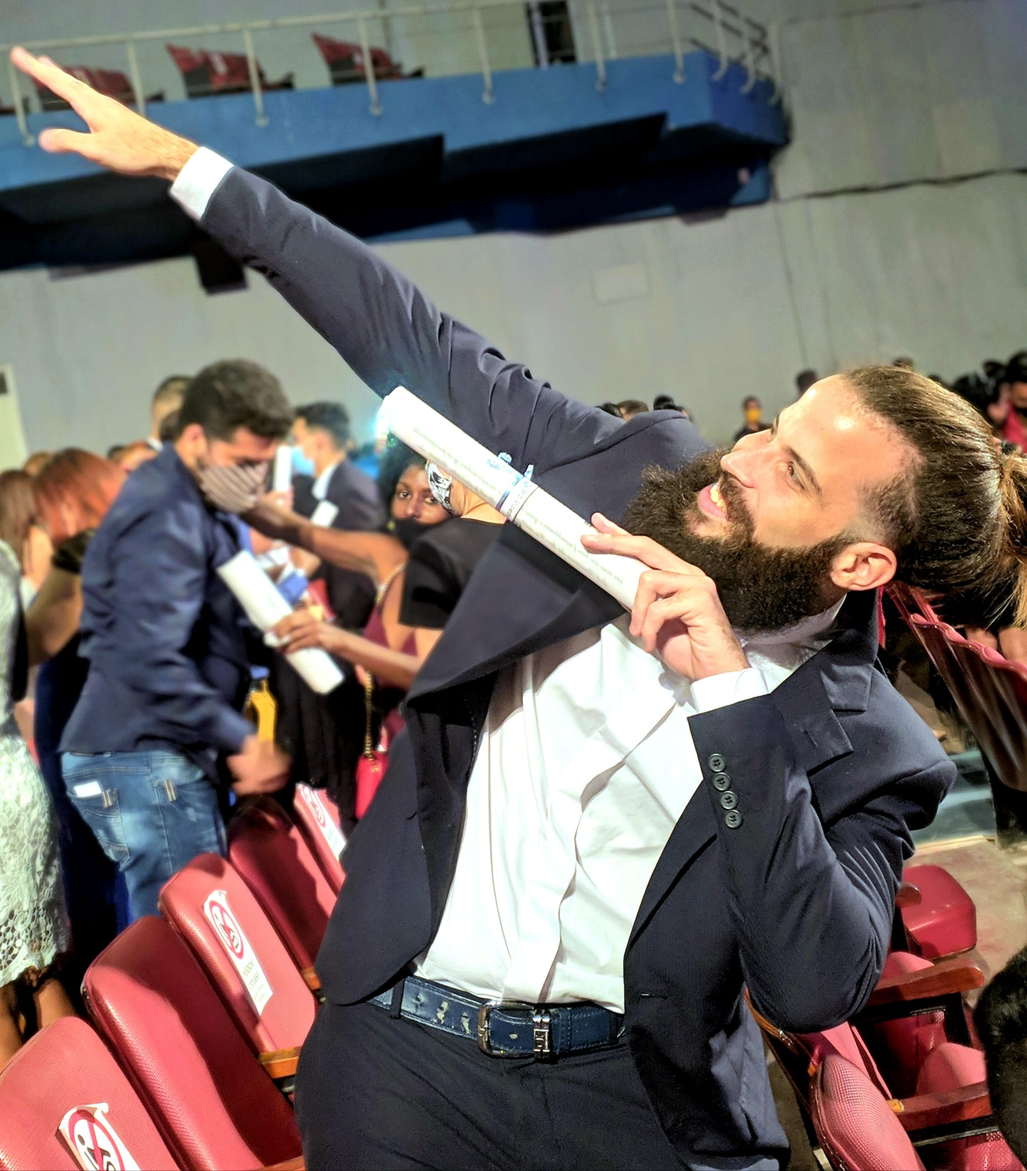
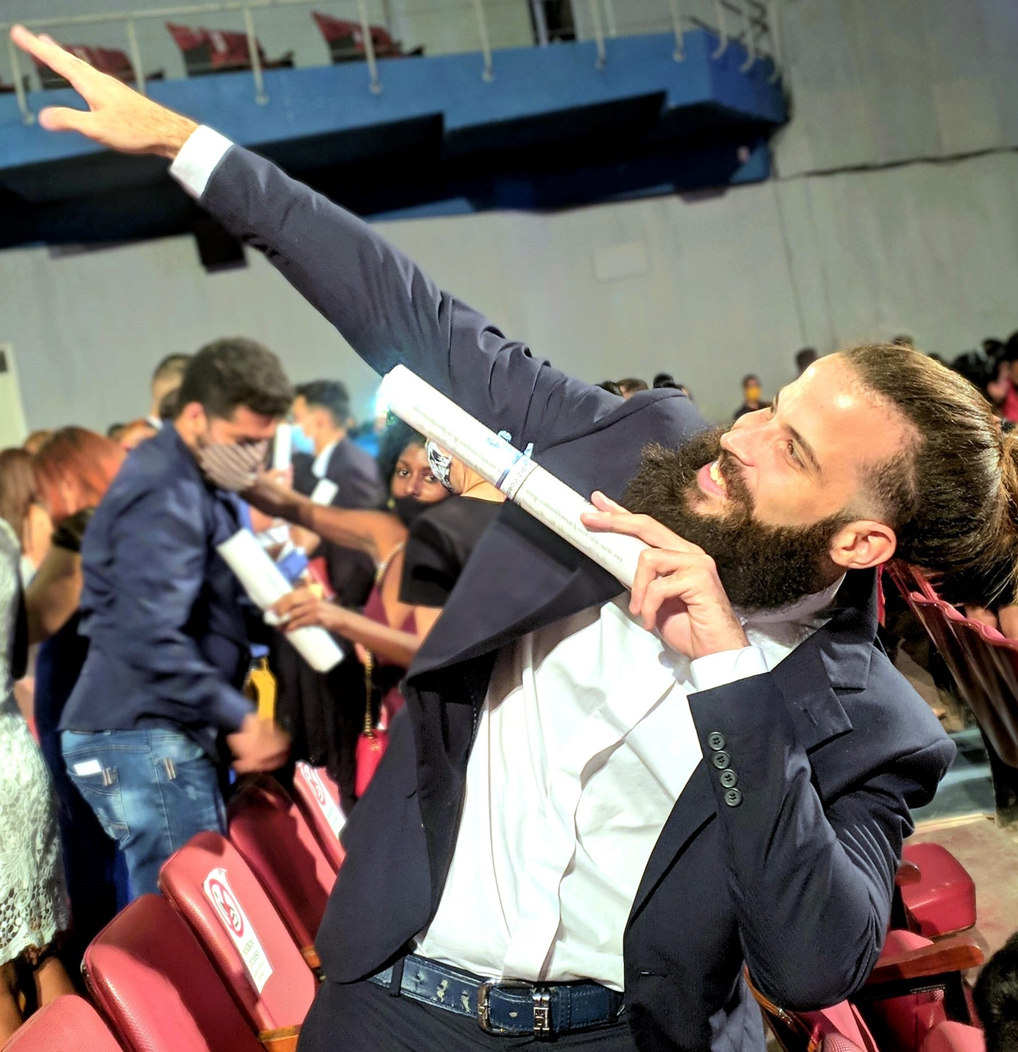
bios agregadas

diff --git a/equipo.html b/equipo.html
@@ -105,17 +105,13 @@
         <div class="container d-flex flex-wrap">
           <div class="row d-flex justify-content-center p-xl-4 p-lg-5 p-md-4">
             <div class="col-xl-3 col-md-3 containerImg">
-              <img class="col-12 col-md-12" src="./assets/img/equipo/meme-ninaEdit.jpg" alt="miembro del equipo de inTalent" title="desarrollador de intalent">
+              <img class="col-12 col-md-12" src="./assets/img/equipo/nataliaRe.jpg" alt="miembro del equipo de inTalent" title="desarrollador de intalent">
             </div>
             <div class="col-xl-7 col-md-8">
               <div class="card-body infoDeveloper">
                 <h2 class="card-title">Natalia Sainz</h2>
                 <h3 class="card-subtitle text-muted paddingDev">Junior Frontend Developer</h3>
-                <p class ="pDev">Lorem ipsum dolor, sit amet consectetur adipisicing elit. Debitis molestias maiores ex odio unde
-                  reiciendis
-                  totam ipsum tempore, dolorem repudiandae ipsa eligendi officia enim, officiis magnam mollitia tenetur
-                  vero
-                  soluta.</p>
+                <p class ="pDev"> Mi obsesión por los cambios y por estar en el centro de lo que es nuevo y revolucionario me ha llevado a querer aprender desarrollo web y a especializarme en área del front. No sólo me apasiona mi trabajo, también me encanta correr y nadar y dibujar, el caso es no parar. </p>
                   <div class="socialMediaIcon">
                     <a href="#"><i title="gitHub" class="fab fa-github-alt"></i></a>
                     <a href="#"><i title="twitter" class="fab fa-twitter"></i></a>
@@ -131,17 +127,15 @@
         <div class="container d-flex flex-wrap">
           <div class="row d-flex justify-content-center p-xl-4 p-lg-5 p-md-4">
             <div class="col-xl-3 col-md-3">
-              <img class="img-fluid col-12" src="./assets/img/equipo/womanyellingcat-1573233850.jpg" alt="miembro del equipo de inTalent" title="desarrollador de intalent">
+              <img class="img-fluid col-12" src="./assets/img/equipo/alexisRe.png" alt="miembro del equipo de inTalent" title="desarrollador de intalent">
             </div>
             <div class="col-xl-7 col-md-7">
               <div class="card-body">
                 <h2 class="card-title">Alexis Bermúdez</h2>
                 <h3 class="card-subtitle text-muted paddingDev">Junior Android Developer</h3>
-                <p class ="pDev">Lorem ipsum dolor sit amet consectetur adipisicing elit. Maxime aperiam blanditiis assumenda ullam
-                  excepturi
-                  omnis iure neque nisi. Veritatis facere totam impedit consectetur dolorem esse expedita consequatur
-                  laboriosam
-                  enim ad.</p>
+                <p class ="pDev">Mi nombre es Alexis Bermudez Viciedo y desde que tengo memoria he vivido obsesionado con las tecnologías, web y aplicaciones por lo que comencé a estudiar desarrollo web.
+                  Esta decisión la tomé porque quise seguir mi pasión: La de ayudar a otras personas y formar parte de su desarrollo personal y profesional.
+                  Esto lo complemento con mis otras dos pasiones: el Powerlifting y la guitarra clásica.</p>
                   <div class="socialMediaIcon">
                     <a href="#"><i title="gitHub" class="fab fa-github-alt"></i></a>
                     <a href="#"><i title="twitter" class="fab fa-twitter"></i></a>
@@ -157,17 +151,15 @@
         <div class="container d-flex flex-wrap">
           <div class=" d-flex justify-content-center row p-xl-4 p-lg-4 p-md-4">
             <div class="col-xl-3 col-md-3">
-              <img class="img-fluid col-12" src="./assets/img/equipo/Haroldfeature-1100x572.jpg" alt="miembro del equipo de inTalent" title="desarrollador de intalent">
+              <img class="img-fluid col-12" src="./assets/img/equipo/javiRe.png" alt="miembro del equipo de inTalent" title="desarrollador de intalent">
             </div>
             <div class="col-xl-7 col-md-7 ">
               <div class="card-body">
                 <h2 class="card-title">Francisco Javier García</h2>
                 <h3 class="card-subtitle text-muted paddingDev">Junior Frontend Developer</h3>
-                <p class ="pDev">Lorem ipsum dolor sit amet consectetur adipisicing elit. Facilis atque vitae numquam dolores aliquid
-                  alias
-                  dolor laboriosam hic maxime cupiditate, quaerat quia sit, provident dolore placeat totam perferendis
-                  eaque
-                  itaque.</p>
+                <p class ="pDev">Mi nombre es Fº Javier García Jiménez y desde siempre he sido muy curioso y me ha encantado aprender, por eso decidí estudiar Física.
+                  De este modo, combinando todos los conocimientos en Física y Matemáticas con la programación para hacer cosas increíbles y facilitar la vida a nuestros clientes.
+                  Más allá de lo profesional me dedico a desafiar las leyes de la propia física en una barra haciendo calistenia.</p>
                   <div class="socialMediaIcon">
                     <a href="#"><i title="gitHub" class="fab fa-github-alt"></i></a>
                     <a href="#"><i title="twitter" class="fab fa-twitter"></i></a>
@@ -189,9 +181,9 @@
               <div class="card-body">
                 <h2 class="card-title">Sergio Martínez</h2>
                 <h3 class="card-subtitle text-muted paddingDev">Desarrollador Frontend</h3>
-                <p class ="pDev">Lorem ipsum dolor sit, amet consectetur adipisicing elit. Delectus doloremque quod vitae sed ducimus
-                  illo
-                  nesciunt quaerat sunt hic iste est sint voluptatem odit, labore, velit nisi deleniti, magni nam.</p>
+                <p class ="pDev">Mi nombre es Sergio Martínez Molina y desde que tengo memoria he vivido obsesionado con las tecnologías, web y aplicaciones por lo que comencé a estudiar desarrollo web.
+                  Esta decisión la tomé porque quise seguir mi pasión: La de ayudar a otras personas y formar parte de su desarrollo personal y profesional.
+                  Esto lo complemento con mis otras dos pasiones: el Powerlifting y la guitarra clásica.</p>
                   <div class="socialMediaIcon">
                     <a href="#"><i title="gitHub" class="fab fa-github-alt"></i></a>
                     <a href="#"><i title="twitter" class="fab fa-twitter"></i></a>
